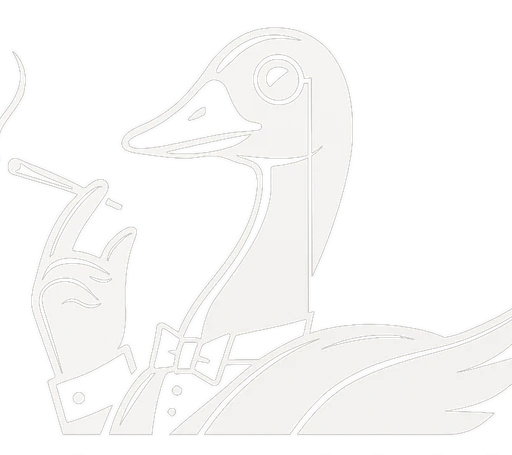
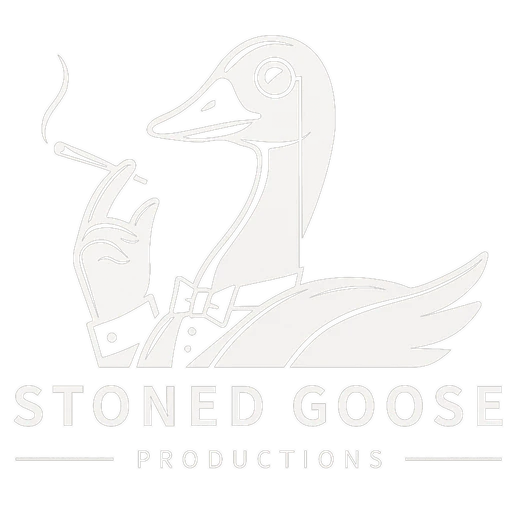
ux(brand): ship the full Stoned Goose lockup in flow placements
Owner clarified: the master is the lockup (smoking goose illustration
+ "STONED GOOSE PRODUCTIONS" wordmark beneath), and the prior crop
that stripped the wordmark made the in-flow placements look "cut off."

- generate-brand-assets.ts: stoned-goose-mark-sm.{png,webp} now ship
  the FULL lockup (no crop), 512x512, transparent bg, bone-tinted.
  Favicons + apple-touch-icon + og-mark continue to use the
  illustration crop because the wordmark turns to mush at 16-32 px.
- Updated nav hover, hero status row, mobile menu, and footer to
  square aspect ratios. Bumped rendered sizes a notch so the lockup
  wordmark inside has room to read:
    nav hover     h-6 -> h-7   (24 -> 28 px)
    hero status   h-7 -> h-9   (28 -> 36 px)
    mobile menu   h-24 -> h-36 (96 -> 144 px)
    footer        h-16/20 -> h-24/28 (64/80 -> 96/112 px)
- 404 uses fill on a square container; no attr change needed.

Build, lint, typecheck stay green.

diff --git a/scripts/brand/generate-brand-assets.ts b/scripts/brand/generate-brand-assets.ts
@@ -1,20 +1,23 @@
-// Generates illustration-only brand assets from the master logo PNG.
+// Generates brand assets from the master logo PNG.
 //
-// Source asset (`public/brand/stoned-goose-mark.png`) is a 2400x2400 lockup
-// that bakes the goose illustration above the "STONED GOOSE PRODUCTIONS"
-// wordmark. House rule keeps the illustration and the Fraunces wordmark as
-// separate identities, so this script crops the illustration and generates
-// the favicon set, apple-touch-icon, OG corner mark, and a clean square
-// on-ink variant. Run with `npm run brand:generate`. Commit the outputs.
+// Source asset (`public/brand/stoned-goose-mark.png`) is the 2400x2400
+// "Stoned Goose Productions" lockup (smoking goose illustration plus
+// the wordmark beneath). The full lockup is the brand mark and ships
+// uncropped wherever the mark appears in flow (nav, hero status row,
+// footer, mobile menu, 404). The illustration-only crop is kept around
+// because at favicon sizes (16-32 px) the wordmark turns to mush and
+// the goose silhouette reads better. So:
 //
 // Outputs (all under public/brand/):
-//   stoned-goose-mark.png          (master, untouched)
-//   stoned-goose-mark-illustration.png  bone-on-transparent illustration crop
-//   stoned-goose-mark-on-ink.png   illustration centered on a black square (2000)
-//   stoned-goose-mark-on-bone.png  illustration recolored ink on a bone square
-//   og-mark.png                    256x256 on-ink mark for OG card watermark
-//   apple-touch-icon.png           180x180 on-ink, padded for iOS rounding
-//   favicon-{16,32,64,128,256,512}.png
+//   stoned-goose-mark.png            (master, untouched)
+//   stoned-goose-mark-sm.png         512x512 full lockup, transparent bg, bone-tinted
+//   stoned-goose-mark-sm.webp        same as above, ~10x smaller payload
+//   stoned-goose-mark-illustration.png  bone-on-transparent illustration crop (legacy)
+//   stoned-goose-mark-on-ink.png     illustration centered on a black square (2000)
+//   stoned-goose-mark-on-bone.png    illustration recolored ink on a bone square
+//   og-mark.png                      256x256 illustration crop for OG card watermark
+//   apple-touch-icon.png             180x180 illustration crop, padded for iOS rounding
+//   favicon-{16,32,64,128,256,512}.png  illustration crop downscaled
 //
 // The vector SVG that the brief mentions is not generated. Source is raster.
 // If a vector lands later, drop it at public/brand/stoned-goose-mark.svg and
@@ -37,9 +40,19 @@ const CROP = { left: 220, top: 60, width: 1960, height: 1740 } as const;
 const SQUARE = 2000;
 
 // Source is white-on-solid-black. Convert the black background to transparent
-// so the bone-colored illustration floats on whatever surface it lands on.
+// so the bone-colored mark floats on whatever surface it lands on.
 // Strategy: lift the red channel as the alpha channel (white=255 stays opaque,
 // black=0 becomes transparent). Then recolor the surviving pixels to bone.
+async function fullLockupTransparent(): Promise<Buffer> {
+  const flat = await sharp(SRC).removeAlpha().toBuffer();
+  const alpha = await sharp(flat).extractChannel(0).toBuffer();
+  const tinted = await sharp(flat)
+    .removeAlpha()
+    .tint({ r: 239, g: 233, b: 221 })
+    .toBuffer();
+  return sharp(tinted).joinChannel(alpha).png().toBuffer();
+}
+
 async function illustrationTransparent(): Promise<Buffer> {
   const cropped = await sharp(SRC).extract(CROP).removeAlpha().toBuffer();
   const alpha = await sharp(cropped).extractChannel(0).toBuffer();
@@ -113,22 +126,24 @@ async function main() {
   );
 
   // Small + WebP variants for in-flow placements (nav, hero status, footer,
-  // mobile menu, 404 hero). The 1960x1740 master is overkill for a 24-200px
+  // mobile menu, 404 hero). The 2400x2400 master is overkill for a 24-200px
   // render and the static export ships it raw because next.config.mjs runs
   // images.unoptimized: true. A 512px source + WebP shrinks the per-page
   // mark payload from ~760KB to ~10-30KB depending on browser support.
-  const SMALL_W = 512;
-  const SMALL_H = Math.round((CROP.height / CROP.width) * SMALL_W);
-  await sharp(transparent)
-    .resize(SMALL_W, SMALL_H)
+  // These ship the FULL lockup (illustration + wordmark) so placements
+  // never look "cut off."
+  const SMALL = 512;
+  const fullLockup = await fullLockupTransparent();
+  await sharp(fullLockup)
+    .resize(SMALL, SMALL)
     .png({ compressionLevel: 9 })
     .toFile(join(OUT, "stoned-goose-mark-sm.png"));
-  console.log(`  -> stoned-goose-mark-sm.png (${SMALL_W}x${SMALL_H})`);
-  await sharp(transparent)
-    .resize(SMALL_W, SMALL_H)
+  console.log(`  -> stoned-goose-mark-sm.png (${SMALL}x${SMALL})`);
+  await sharp(fullLockup)
+    .resize(SMALL, SMALL)
     .webp({ quality: 88 })
     .toFile(join(OUT, "stoned-goose-mark-sm.webp"));
-  console.log(`  -> stoned-goose-mark-sm.webp (${SMALL_W}x${SMALL_H})`);
+  console.log(`  -> stoned-goose-mark-sm.webp (${SMALL}x${SMALL})`);
 
   const onInk = await illustrationOnInk();
   await sharp(onInk).toFile(join(OUT, "stoned-goose-mark-on-ink.png"));

diff --git a/components/nav.tsx b/components/nav.tsx
@@ -44,9 +44,9 @@ export function Nav() {
             src="/brand/stoned-goose-mark-sm.webp"
             alt=""
             width={28}
-            height={25}
+            height={28}
             className={cn(
-              "h-6 w-auto -translate-x-2 opacity-0 transition-all duration-300 ease-out",
+              "h-7 w-auto -translate-x-2 opacity-0 transition-all duration-300 ease-out",
               "group-hover:translate-x-0 group-hover:opacity-90",
               "group-focus-visible:translate-x-0 group-focus-visible:opacity-90",
               "motion-reduce:translate-x-0 motion-reduce:opacity-90 motion-reduce:transition-none",
@@ -125,10 +125,10 @@ export function Nav() {
           <Image
             src="/brand/stoned-goose-mark-sm.webp"
             alt=""
-            width={120}
-            height={107}
+            width={144}
+            height={144}
             loading="lazy"
-            className="mb-8 block h-24 w-auto opacity-90"
+            className="mb-8 block h-36 w-auto opacity-90"
           />
           <ul className="flex flex-col">
             {nav.map((item, i) => (

diff --git a/components/footer.tsx b/components/footer.tsx
@@ -44,9 +44,9 @@ export function Footer() {
               src="/brand/stoned-goose-mark-sm.webp"
               alt=""
               width={160}
-              height={142}
+              height={160}
               loading="lazy"
-              className="block h-16 w-auto opacity-90 md:h-20"
+              className="block h-24 w-auto opacity-90 md:h-28"
             />
             <p className="mt-4 font-body text-[10px] font-medium uppercase tracking-[0.18em] text-bone/45">
               Olympia, WA

diff --git a/components/hero.tsx b/components/hero.tsx
@@ -26,9 +26,9 @@ export function Hero() {
           <Image
             src="/brand/stoned-goose-mark-sm.webp"
             alt=""
-            width={32}
-            height={28}
-            className="h-7 w-auto opacity-60"
+            width={36}
+            height={36}
+            className="h-9 w-auto opacity-60"
           />
           <p className="font-mono text-[10px] uppercase tracking-[0.22em] text-bone/55">
             Now booking{" "}
